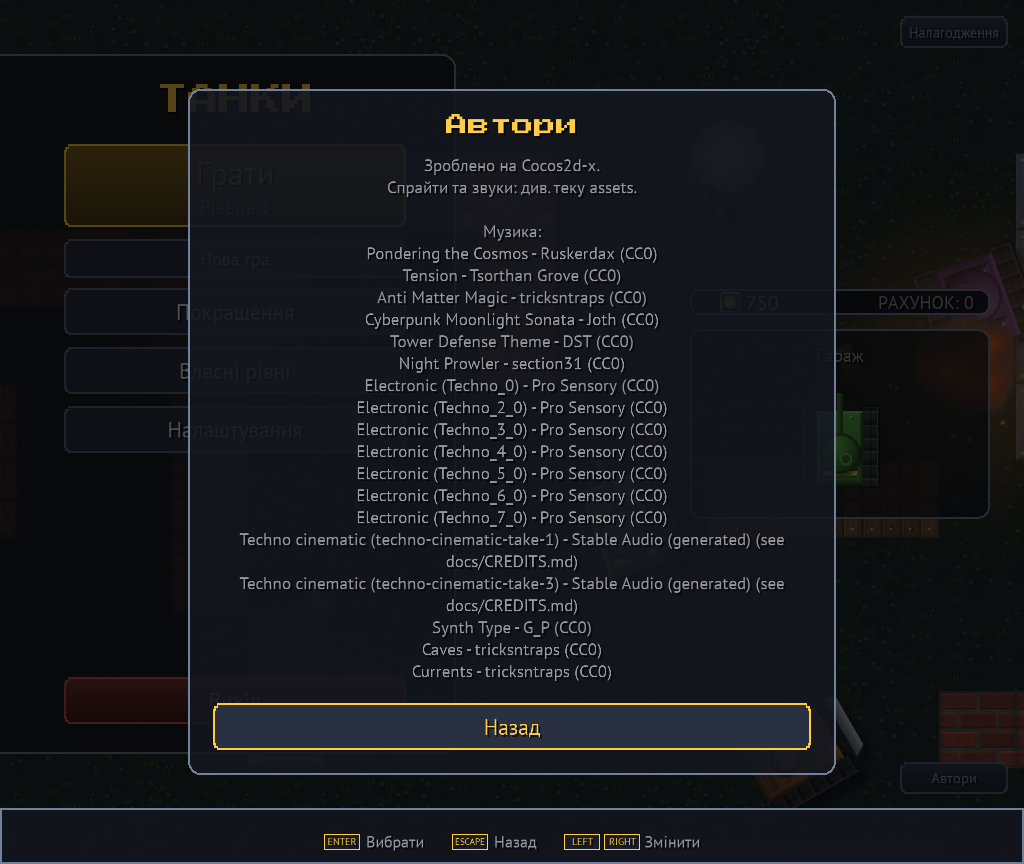
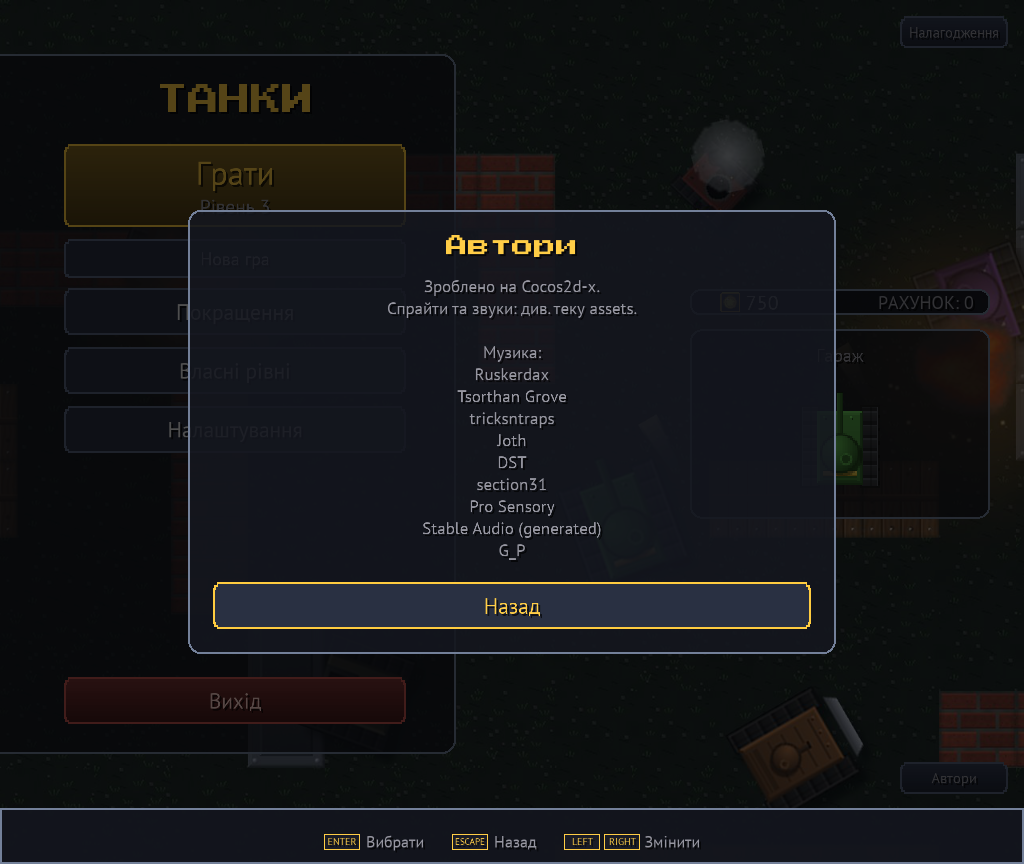
Credits: unique author names under 'Music by'

diff --git a/TanksClone/Classes/scenes/MenuScene.cpp b/TanksClone/Classes/scenes/MenuScene.cpp
@@ -274,10 +274,17 @@ void MenuScene::ShowCredits()
 	std::string Body = Text("MENU_CREDITS_TEXT") + "\n\n" + Text("CREDITS_MUSIC");
 	const model::IConfigNode& Root = GameContext::Get<ConfigReader>().GetConfig(config_refs::ResolveId(ids::configs::Credits));
 	const model::IConfigNode* const Tracks = Root.FindChild("credits");
+	TArray<std::string> Authors;
 	for ( size_t Index = 0; Tracks && Index < Tracks->GetItemCount(); ++Index )
 	{
 		const model::IConfigNode& Track = *Tracks->GetItem(Index);
-		Body += "\n" + Track.GetValueOr("title", std::string()) + " - " + Track.GetValueOr("author", std::string()) + " (" + Track.GetValueOr("license", std::string()) + ")";
+		const std::string Author = Track.GetValueOr("author", std::string());
+		if ( Author.empty() || std::find(Authors.begin(), Authors.end(), Author) != Authors.end() )
+		{
+			continue;
+		}
+		Authors.PushBack(Author);
+		Body += "\n" + Author;
 	}
 	addChild(widgets::Overlay::create(Text("MENU_CREDITS"), Body, Buttons, 0.0f, ids::widgets::Credits), OverlayZ);
 }
